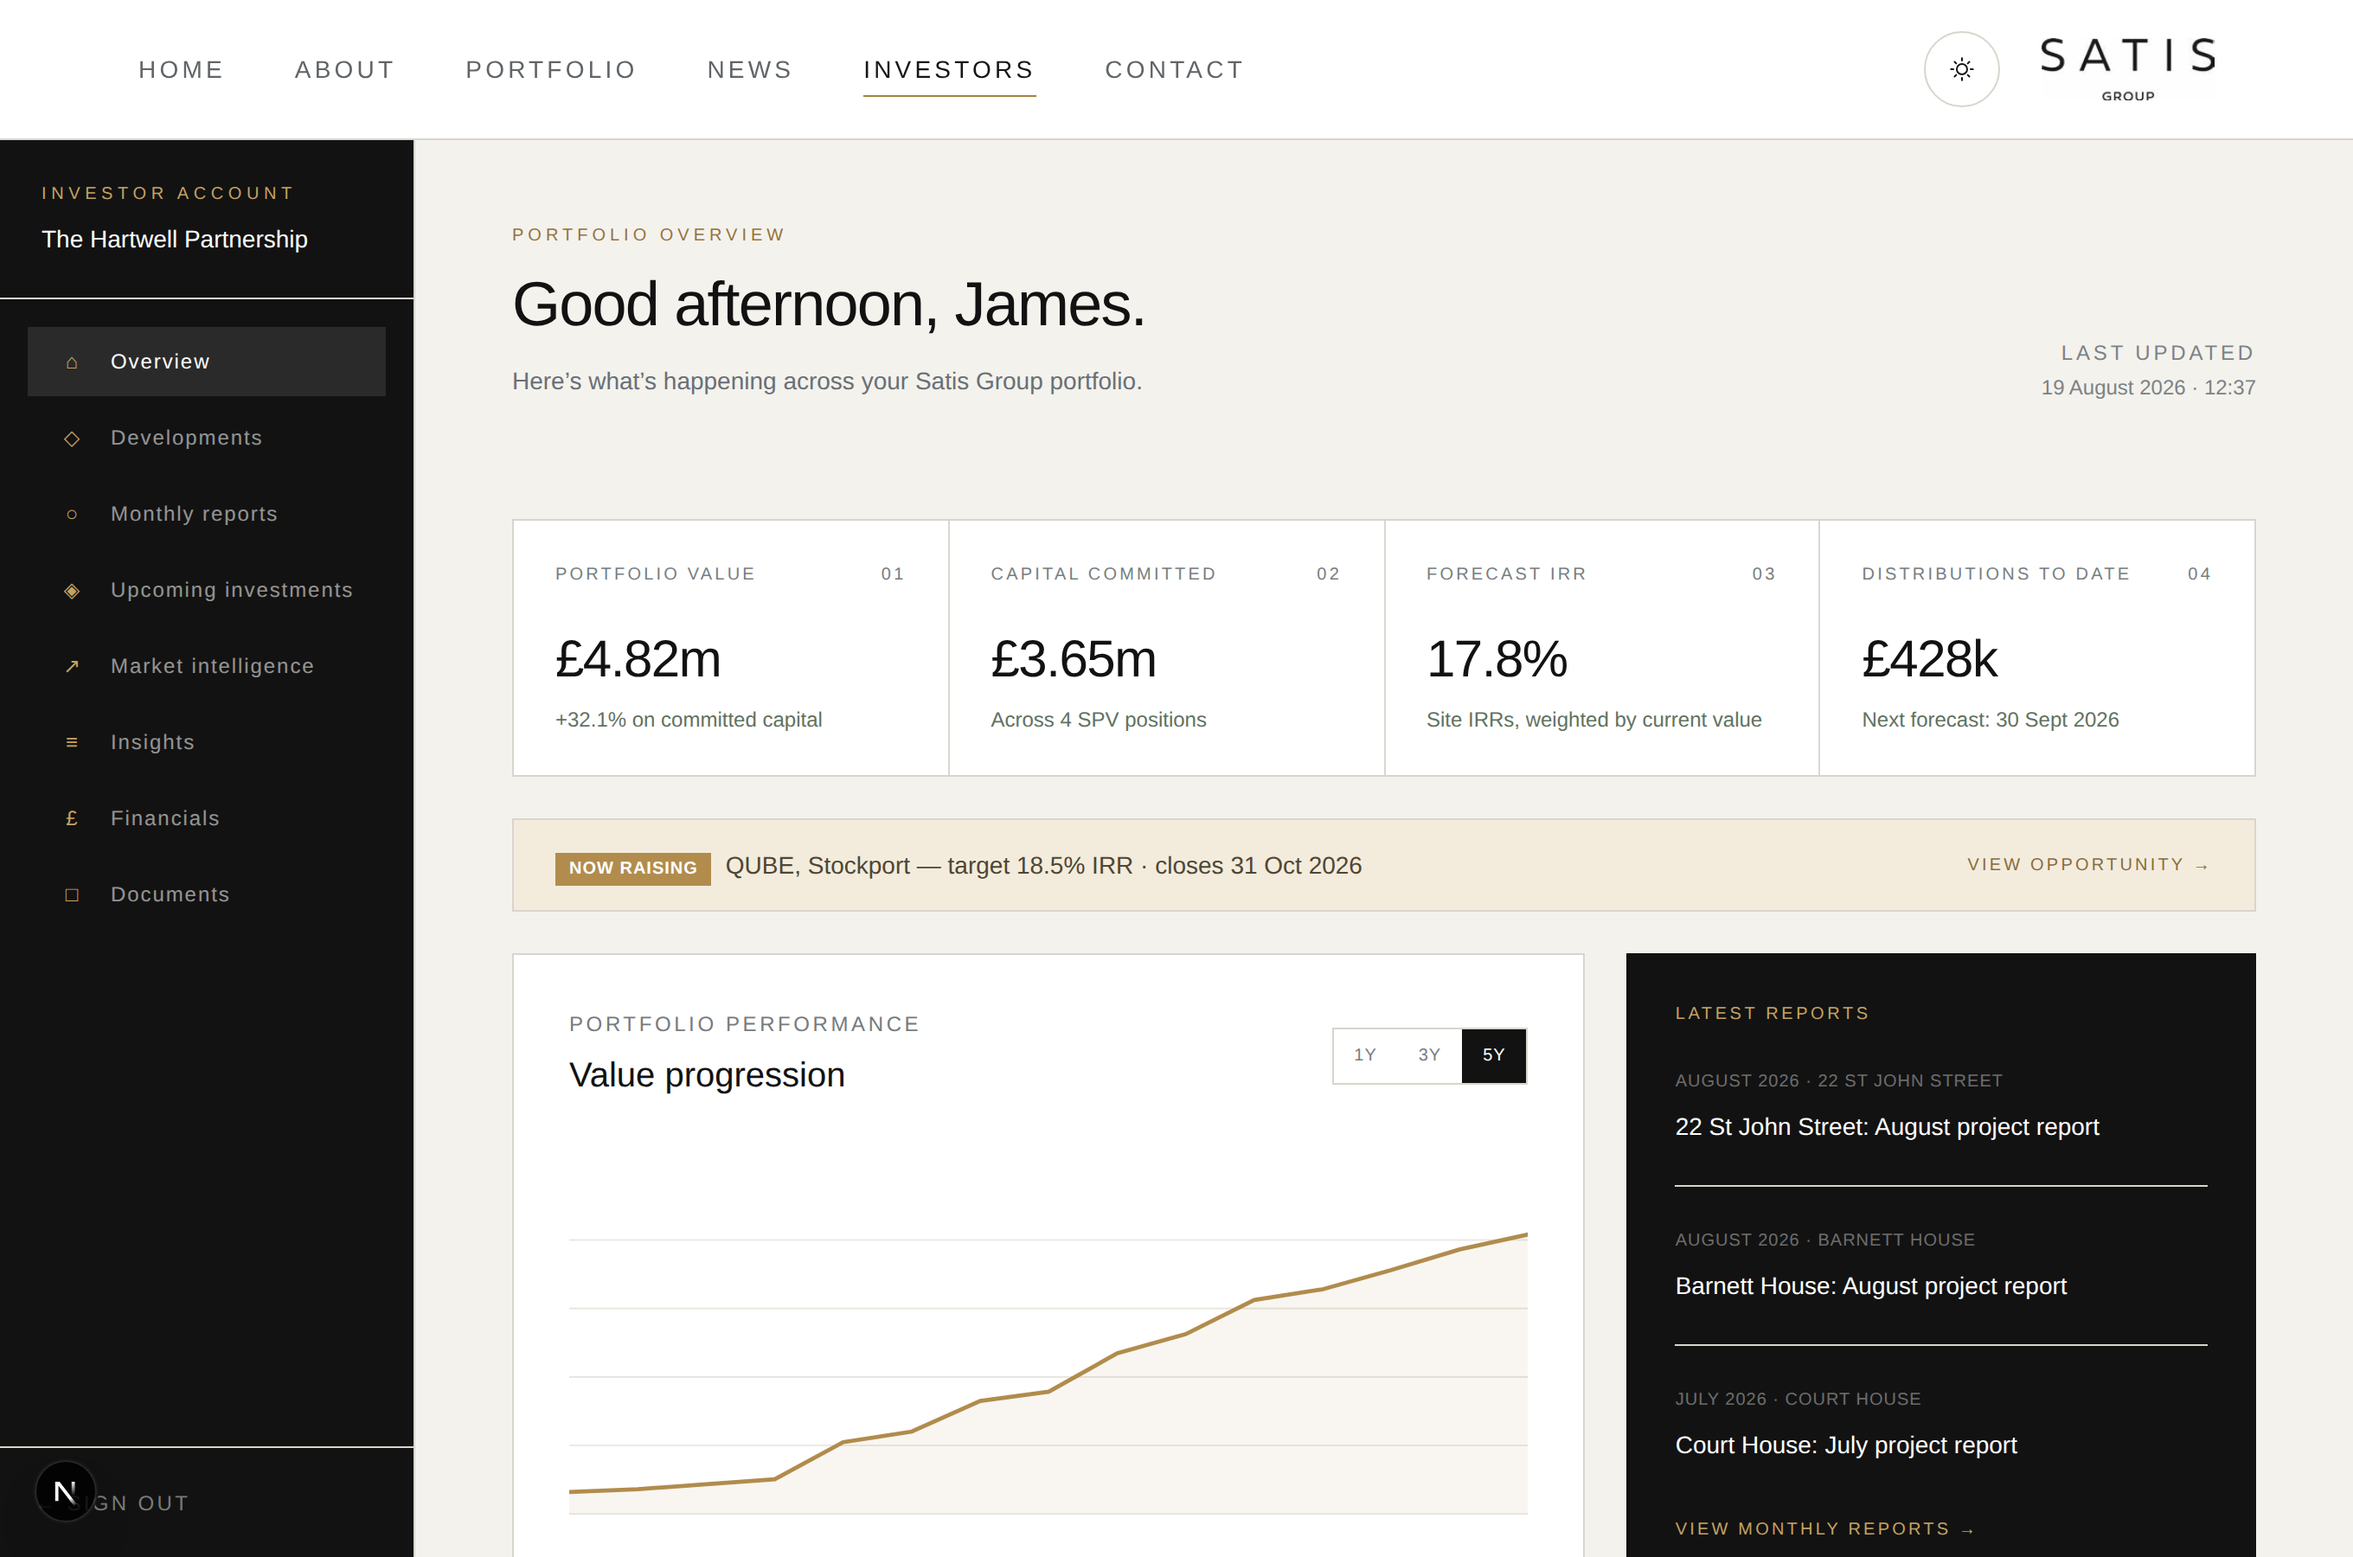
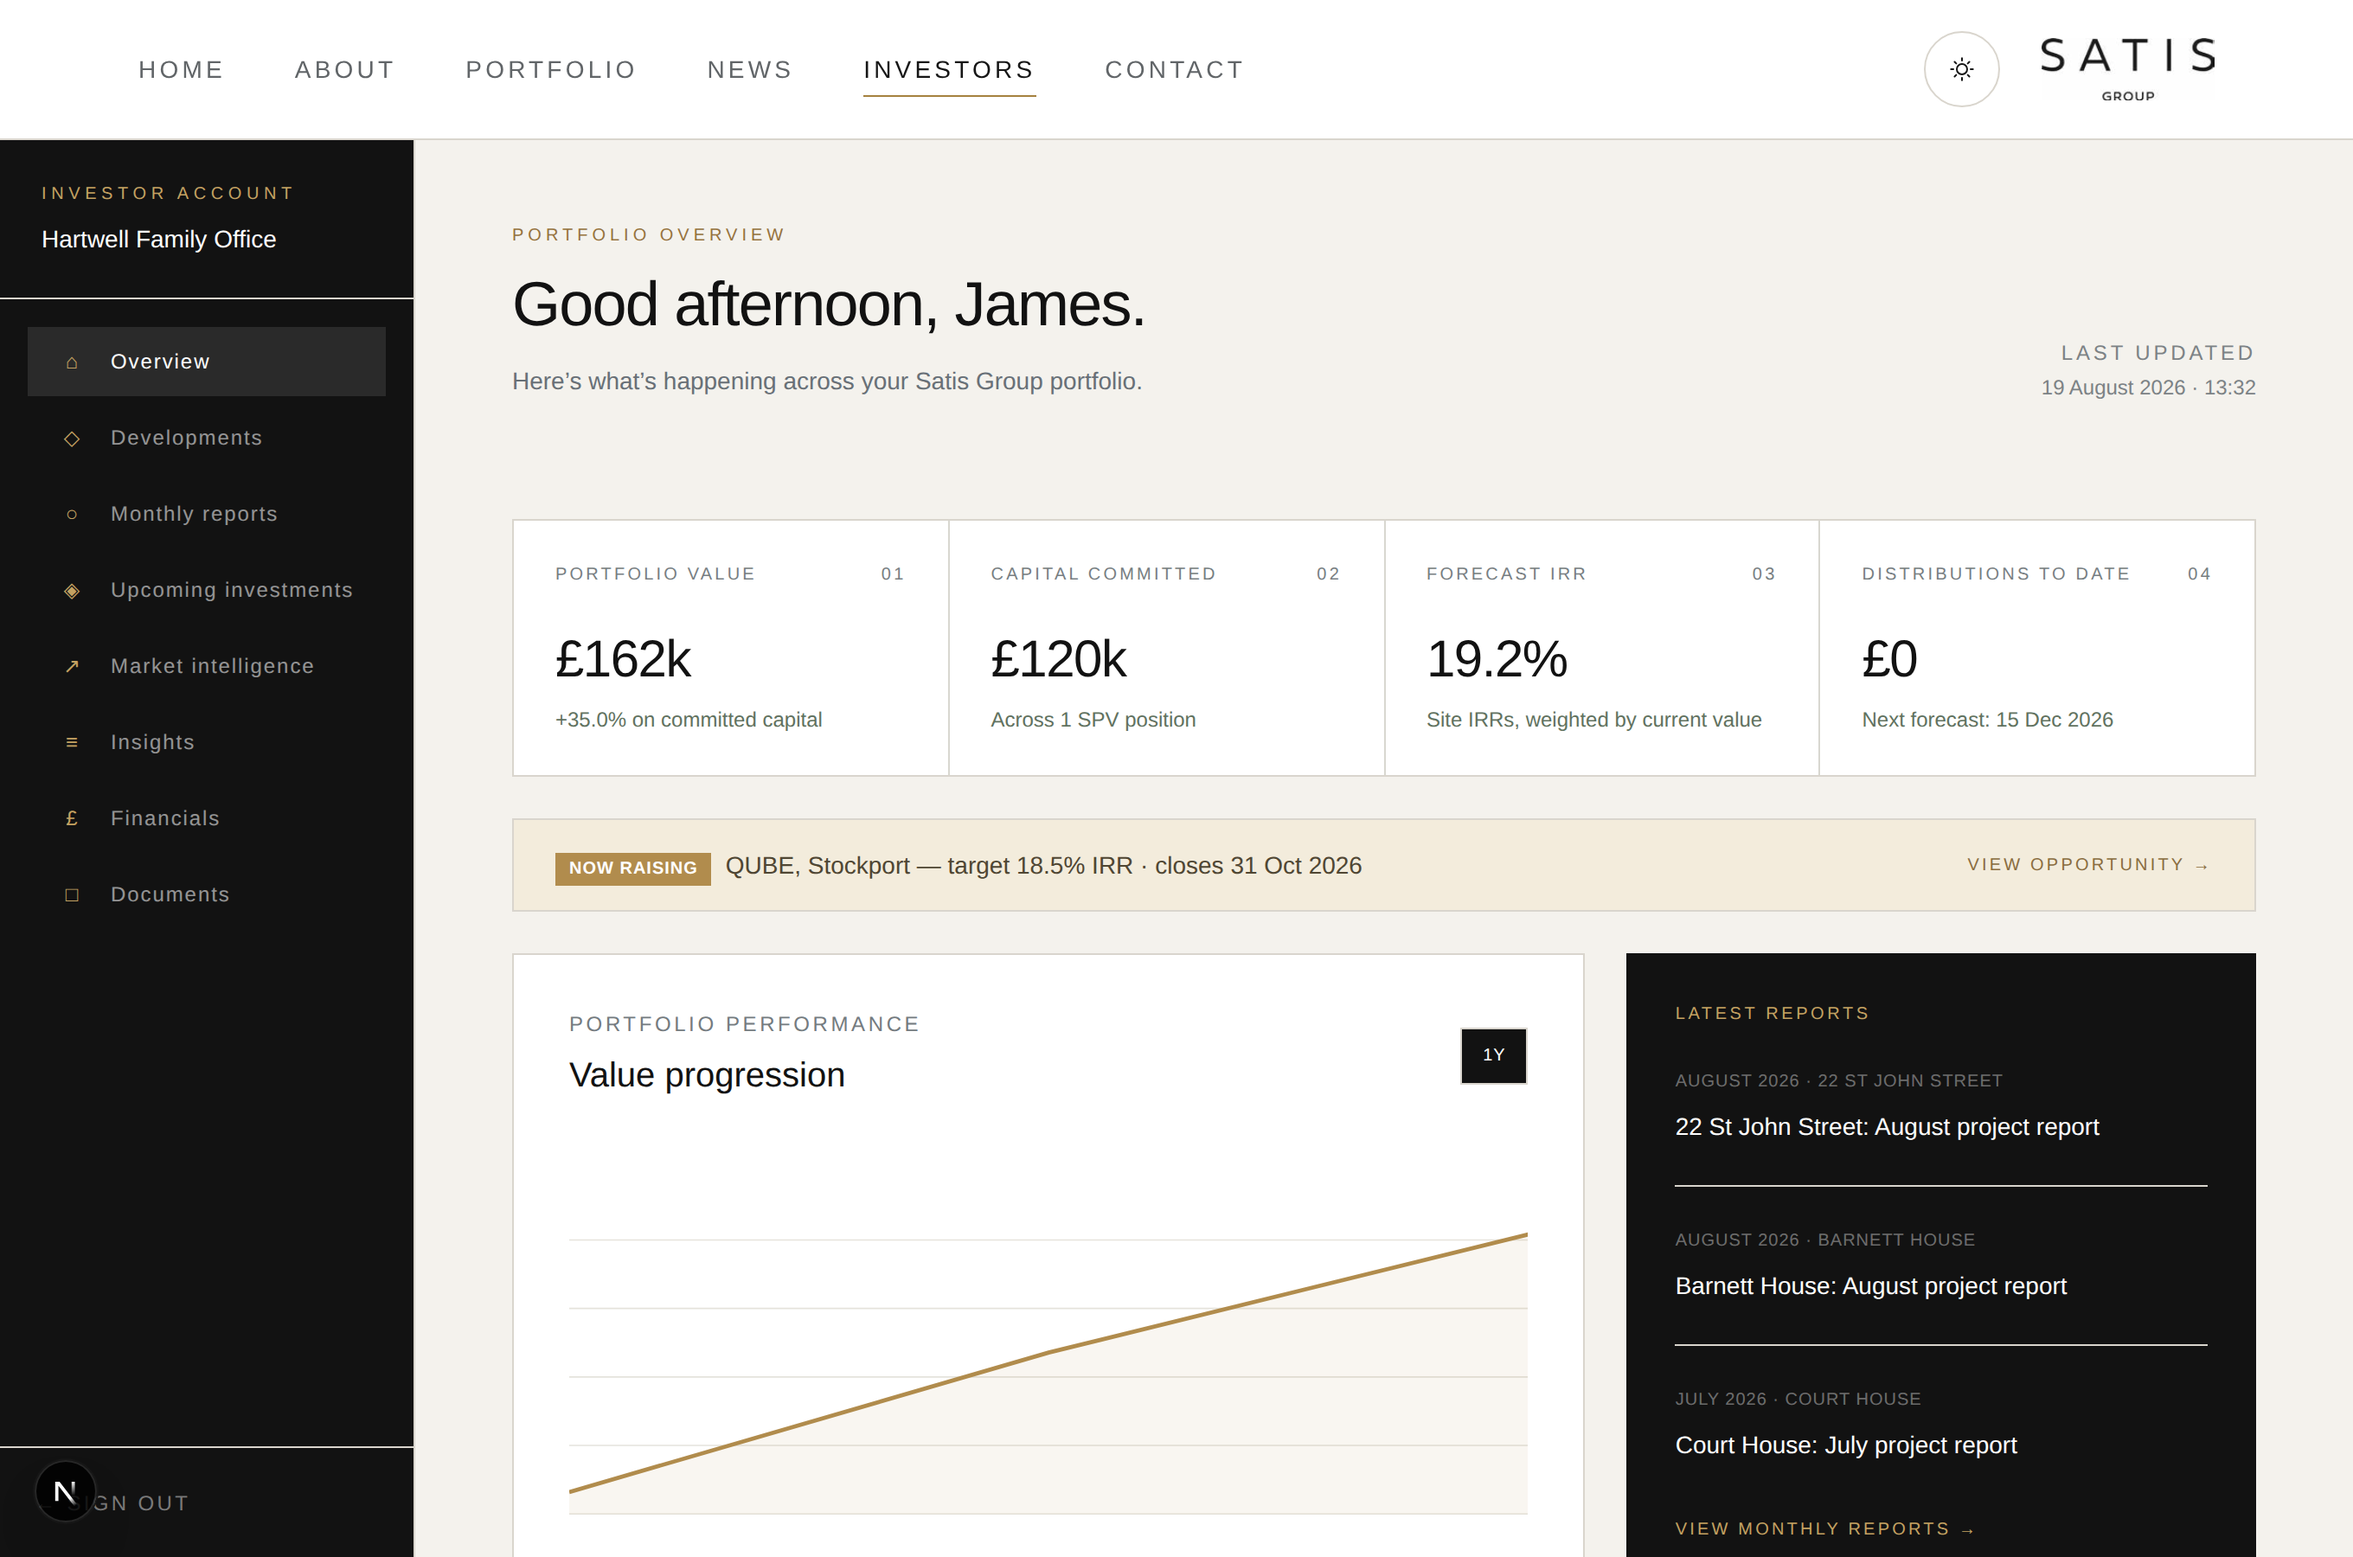
Simplify the operations guide and refresh the investor-portal screenshot
- Each chapter page now opens with an 'In this chapter' anchor list of its
  steps for quicker navigation.
- Tightened the wordiest passages (golden rule, live-hosting lede and
  save-flow, cap-tables lede, admin-accounts and documents ledes) into
  shorter, plainer sentences.
- Investor-portal screenshot re-captured against the current portal using
  a throwaway local account; no dataset changes are included.

Claude-Session: https://claude.ai/code/session_01V5fT69oZSnb1p5PeGYq5H6

diff --git a/lib/admin-guide.ts b/lib/admin-guide.ts
@@ -164,7 +164,7 @@ export const GUIDE_CHAPTERS: GuideChapter[] = [
     summary:
       "Who can sign in to the admin area, adding a colleague, and resetting an admin password.",
     lede: [
-      "Admin accounts are separate from investor accounts, and they are deliberately not stored on the website itself — they live as a setting in the hosting platform (Vercel), where an attacker who somehow read the site's files still could not see them. The Admin accounts page bridges the two: it shows who can sign in, and generates the setting value for you to paste into Vercel.",
+      "Admin accounts are separate from investor accounts, and for safety they are stored in the hosting platform (Vercel) rather than on the website itself. The Admin accounts page does the fiddly part for you: it shows who can sign in, and generates the setting value you paste into Vercel.",
       "Investor logins are managed elsewhere — the Investors tab of the platform studio (see “Creating an investor account”).",
     ],
     time: "About 10 minutes, including the hosting step",
@@ -498,8 +498,8 @@ export const GUIDE_CHAPTERS: GuideChapter[] = [
       {
         title: "The golden rule: portfolio values are worked out, not typed in",
         body: [
-          "You never type an investor's portfolio value anywhere. The platform works it out: an investor's stake in a project = their share % (from the cap table) × the SPV's current equity value (from the Developments & SPVs tab). Their portfolio value is the sum of those stakes.",
-          "This has a very useful consequence: when a project is revalued, you update one number — the SPV's equity value — and every investor's figures update themselves, correctly, at the same moment. It also means that if a figure in a portal looks wrong, the cause is always one of two numbers: that investor's share %, or the SPV's equity value.",
+          "You never type an investor's portfolio value anywhere. The platform works it out: share % (from the cap table) × the SPV's equity value (from the Developments & SPVs tab), added up across their holdings.",
+          "Two things follow. When a project is revalued, you update one number — the SPV's equity value — and every investor's figures update at once. And if a portal figure ever looks wrong, the cause is always one of those two numbers: the share %, or the equity value.",
         ],
       },
       {
@@ -522,8 +522,8 @@ export const GUIDE_CHAPTERS: GuideChapter[] = [
       {
         title: "Where changes take effect — and the one delay to expect",
         body: [
-          "In a writable environment (the site running locally, or a Claude Code session), every Save button in the studio takes effect immediately. On the live hosting, each save is instead committed to the website's repository and goes live when the automatic redeploy finishes — about a minute or two. A note above the tabs tells you which mode you are in, and a just-saved change may briefly not show in the lists yet: give it a minute and refresh.",
-          "If a Save button refuses outright on the live site, the hosting's repository token is missing or has expired — the chapter “Making changes stick on live hosting” explains the token and the fallback routine that works everywhere.",
+          "Saves take effect immediately when the site runs locally or in a Claude session. On the live site they take a minute or two — each save goes live via an automatic republish, so a just-saved change may briefly not show in the lists. Give it a minute and refresh.",
+          "If a Save button refuses outright on the live site, see “Making changes stick on live hosting” — it explains the one setting that fixes it and the fallback routine that works everywhere.",
         ],
       },
     ],
@@ -616,8 +616,8 @@ export const GUIDE_CHAPTERS: GuideChapter[] = [
     summary:
       "Record who owns what share of each project, and log the capital calls, distributions and interest that flow to investors.",
     lede: [
-      "This is the money chapter. The Cap tables & returns tab records two things: positions (who owns what percentage of which SPV, and what they paid for it) and cash events (money moving — capital calls, distributions, interest). Between them they drive every financial figure an invested client sees.",
-      "Take these edits slowly and check each one after saving. The forms validate what they can — a cap table can never exceed 100% — but only you know whether the numbers themselves are right.",
+      "This is the money chapter. The Cap tables & returns tab records two things: positions (who owns what share of which SPV, and what they paid) and cash events (money moving in or out). Together they drive every financial figure an invested client sees.",
+      "Go slowly and check each save. The forms catch what they can — a cap table can never exceed 100% — but only you know whether the numbers themselves are right.",
     ],
     time: "5 minutes per position or event",
     youNeed: [
@@ -820,7 +820,7 @@ export const GUIDE_CHAPTERS: GuideChapter[] = [
     summary:
       "Share memorandums, appraisals and private documents with the right investors — everyone prospective, or one account only.",
     lede: [
-      "The portal's data room holds the documents investors can read: investment memorandums, appraisals, legal packs. Unlike everything else in this guide, documents are not yet managed by a form — they live in a small file (content/investors/documents.json) that is easiest to change by asking Claude. This chapter shows exactly what to ask for.",
+      "The portal's data room holds the documents investors can read: investment memorandums, appraisals, legal packs. Unlike everything else in this guide, documents are not yet managed by a form — the easiest way to change them is to ask Claude. This chapter shows exactly what to ask for.",
     ],
     time: "A few minutes per document",
     steps: [
@@ -921,15 +921,16 @@ export const GUIDE_CHAPTERS: GuideChapter[] = [
     summary:
       "Why Save buttons refuse on the live site, and the export → edit → commit routine that works everywhere.",
     lede: [
-      "This is the most important technical idea in the whole guide, and it is genuinely simple once seen. The live website runs on Vercel, a hosting platform that treats the deployed site as read-only — like a printed brochure. You cannot scribble on a printed brochure; you change the master copy and print a new one.",
-      "The master copy of this website lives in a GitHub repository (a shared, version-tracked folder of all the site's files). Everything below follows from that: the platform studio saves on the live site by committing to the repository for you (once a repository token is configured), and everything else — news stories, website content — reaches the live site by changing the repository through Claude.",
+      "One idea explains everything here: the live website is like a printed brochure. You cannot scribble on a printed brochure — you change the master copy and print a new one. The master copy lives in a GitHub repository (a shared, version-tracked folder of the site's files), and the live site reprints itself automatically whenever the master changes.",
+      "So there are only two routes for any change. The platform studio updates the master for you — you just press Save. Everything else (news stories, website content) reaches the master through Claude.",
     ],
     time: "About 10 minutes once you've done it twice",
     steps: [
       {
         title: "How the platform studio saves on the live site",
         body: [
-          "When the hosting has a repository token configured, every Save in the platform studio quietly becomes a commit to the repository, and the change goes live when the automatic redeploy finishes — about a minute or two. You just press Save as normal; a note above the studio's tabs confirms this mode, and the only difference you notice is that a just-saved change can take a minute to show. This applies to investor-platform data only; news stories and website content always go the Claude route below.",
+          "On the live site, every Save in the platform studio quietly updates the master copy for you, and the change goes live when the automatic reprint finishes — about a minute or two. Press Save as normal; the only difference you notice is that a just-saved change can take a minute to show. Give it a minute and refresh.",
+          "This applies to investor-platform data only. News stories and website content always go the Claude route below.",
         ],
         callouts: [
           tip(

diff --git a/app/admin/guide/[slug]/page.tsx b/app/admin/guide/[slug]/page.tsx
@@ -103,7 +103,7 @@ function Screenshot({ screenshot }: { screenshot: GuideScreenshot }) {
 
 function Step({ step, index }: { step: GuideStep; index: number }) {
   return (
-    <section className="border-t border-border pt-8">
+    <section id={`step-${index + 1}`} className="scroll-mt-28 border-t border-border pt-8">
       <span className="flex items-center gap-3 text-xs tracking-[.35em] uppercase text-accent-text">
         <span>Step {String(index + 1).padStart(2, "0")}</span>
         <span className="h-px w-8 bg-accent/60" aria-hidden="true" />
@@ -224,6 +224,31 @@ export default async function AdminGuideChapterPage({
                   </div>
                 )}
               </dl>
+            )}
+
+            {chapter.steps.length > 1 && (
+              <nav aria-label="In this chapter" className="mt-8">
+                <p className="text-[10px] tracking-[.2em] uppercase text-accent-text">
+                  In this chapter
+                </p>
+                <ol className="mt-3 flex flex-col gap-1.5">
+                  {chapter.steps.map((step, i) => (
+                    <li key={i}>
+                      <a
+                        href={`#step-${i + 1}`}
+                        className="group inline-flex items-baseline gap-3 text-sm text-muted transition-colors hover:text-accent"
+                      >
+                        <span className="text-xs tracking-[.15em] text-accent-text">
+                          {String(i + 1).padStart(2, "0")}
+                        </span>
+                        <span className="underline decoration-border underline-offset-4 group-hover:decoration-accent">
+                          {step.title}
+                        </span>
+                      </a>
+                    </li>
+                  ))}
+                </ol>
+              </nav>
             )}
 
             <div className="mt-12 flex flex-col gap-12">
